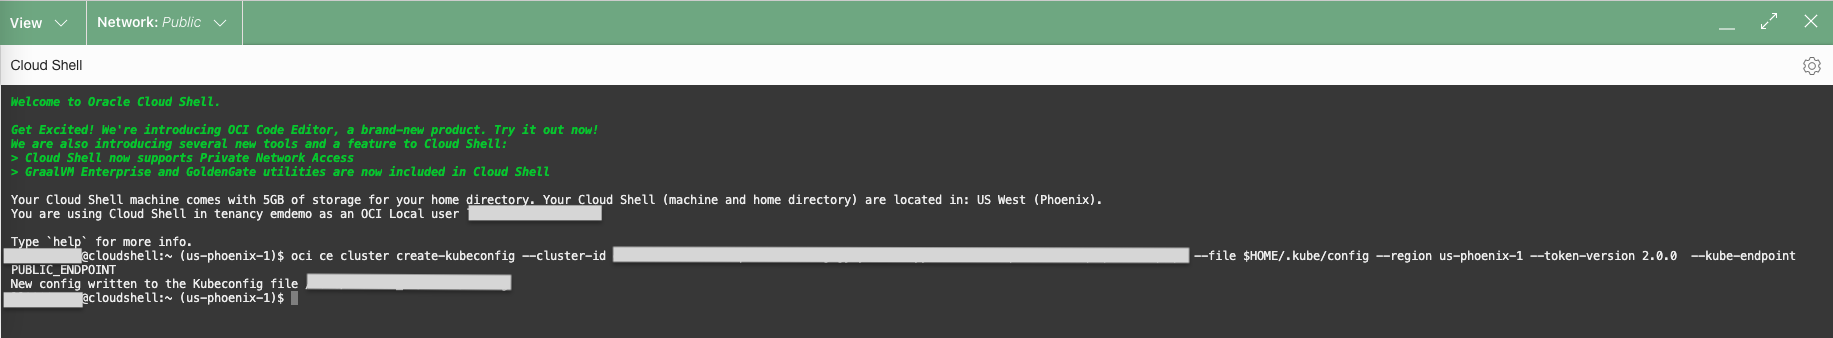
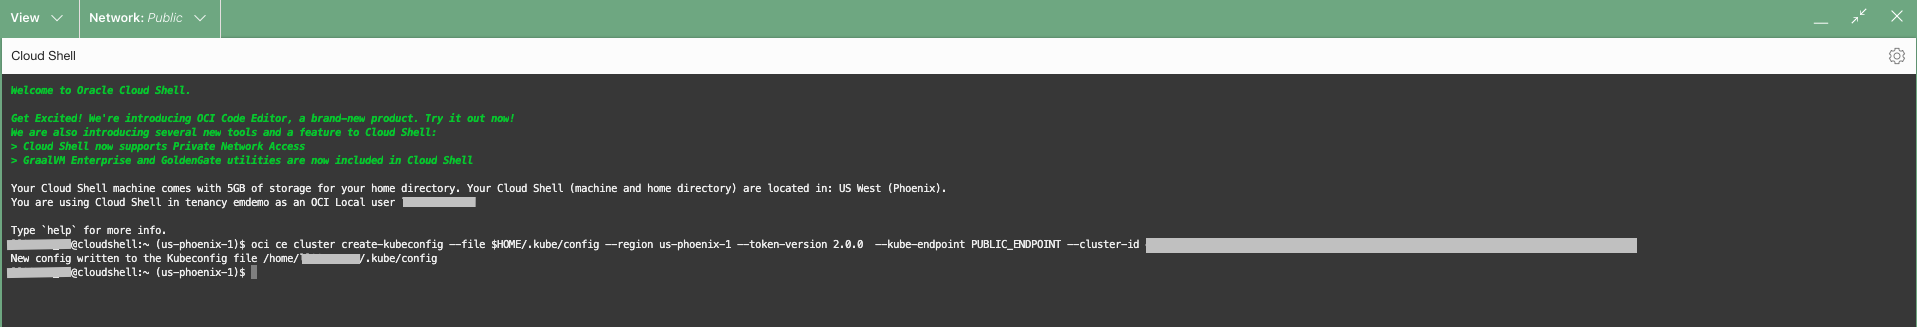
9501 Kubernetes and OKE Monitoring and Troubleshooting (#95)
* OKE Monitoring via LA Live Lab

OKE Monitoring via LA Live Lab

* Refactoring and image name changes

Refactoring and image name changes

* Add Details related to service accounts, cluster role and cluster role binding.

* Updating the Learn More Place Holders

Updating the Learn More Place Holders

* Delete howtouse-deletewhenfinished.md

* Incorporated the review comments

Incorporated the review comments and removed few details.

* Review Comments

1. Updated the manifest.json for ocw and copied the data in the other workshop
2. created the 3 different workshops for ocw
3.Updated the ingestion.md
4. Grammar Checks in ingestion.md and introuction.md

* Removing Lab 2 as per the review comment

Removing Lab 2 as per the review comment

* Masking the details and ips

Masking the details and ips

* Update get-fluentd-pods.png

* Removing the login steps as per the review comments

Removing the login steps as per the review comments

* Adding the new cloud-login-livelabs.md

Adding the new cloud-login-livelabs.md

* Conclusion lab and values yaml changes

Conclusion lab and values yaml changes

* Update ingestion.md

* Update conclusion.md

* Update ingestion.md

* Update ingestion.md

* Updating helm command and get deployments command

Updating helm command and get deployments command

* Custom Application Log Collection

Custom Application Log Collection

* Update custom-log-collection.md

* Updating the Image Alt Text

Updating the Image Alt Text
[…]

Changed region(s): [[0.0, 0.0, 1.0, 1.0], [0.0, 0.5505, 0.6219, 0.6728], [0.964, 0.0, 0.9951, 0.0612]]

diff --git a/logging-analytics/oke-monitoring-la/ingestion-flow-setup/ingestion.md b/logging-analytics/oke-monitoring-la/ingestion-flow-setup/ingestion.md
@@ -71,9 +71,10 @@ Gather the following information that will be used in this and subsequent labs.
 
     ```
      <copy>
-       oci ce cluster create-kubeconfig --cluster-id <Kubernetes Cluster OCID> --file $HOME/.kube/config --region us-phoenix-1 --token-version 2.0.0  --kube-endpoint PUBLIC_ENDPOINT
+       oci ce cluster create-kubeconfig --file $HOME/.kube/config --region us-phoenix-1 --token-version 2.0.0  --kube-endpoint PUBLIC_ENDPOINT --cluster-id <Kubernetes Cluster OCID>
      </copy>
     ```   
+    
     ![oci-cloud-shell](images/oci-command.png)
   
 
@@ -108,6 +109,9 @@ Gather the following information that will be used in this and subsequent labs.
 
 
 2. Download the helm chart using the following command.
+
+     > **Note**: The following helm chart is recommended only for this workshop. Refer [github] (https://github.com/oracle-quickstart/oci-kubernetes-monitoring/releases) for all other use cases. 
+
     ```
       <copy>
           wget https://objectstorage.us-phoenix-1.oraclecloud.com/p/YQy-JQa0RPGxI-pGKmnmA_PJArpo8ZjMdYXCJQM7yXXf6bSCyzI7X_YYmfTDxGbw/n/axfo51x8x2ap/b/oci-kubernetes-monitoring/o/helm-chart/v2.0.0.alpha.1.tgz
@@ -234,13 +238,13 @@ Gather the following information that will be used in this and subsequent labs.
 1. Install the helm chart using the following command.
       ```
         <copy>
-         helm install <Kubernetes Namespace> --values ~/oke-livelab/external-values/values.yaml ~/oke-livelab/helm-chart/ -n=<Kubernetes Namespace>
+         helm install ll-oke-monitoring --values ~/oke-livelab/external-values/values.yaml ~/oke-livelab/helm-chart/ -n=<Kubernetes Namespace>
         </copy>
       ```
       
       ```
-        NAME: resrXXXXX
-        LAST DEPLOYED: Fri Sep 23 05:18:11 2022
+        NAME: ll-oke-monitoring
+        LAST DEPLOYED: Thu Sep 29 10:20:18 2022
         NAMESPACE: resrXXXXX
         STATUS: deployed
         REVISION: 1
@@ -269,7 +273,7 @@ Gather the following information that will be used in this and subsequent labs.
      
       ```
             <copy>
-                kubectl get pods -n=<Kubernetes Namespace> | grep daemonset
+                kubectl get pods -l app=oci-la-fluentd-logs -n=<Kubernetes Namespace>
             </copy>
       ```
      
@@ -301,7 +305,7 @@ Gather the following information that will be used in this and subsequent labs.
 
        ```
           <copy>
-              kubectl get pods -n=<Kubernetes Namespace> |grep deployment
+              kubectl get pods -l app=oci-la-fluentd-objects -n=<Kubernetes Namespace>
           </copy>
        ```
       
@@ -361,7 +365,7 @@ Gather the following information that will be used in this and subsequent labs.
 
         ```
                 <copy>
-                    kubectl get pods -n=<Kubernetes Namespace> | grep daemonset
+                    kubectl get pods -l app=oci-la-fluentd-logs -n=<Kubernetes Namespace>
                 </copy>
           ```
      
@@ -384,27 +388,6 @@ Gather the following information that will be used in this and subsequent labs.
           2022-08-18 10:35:06 +0000 [info]: #0 fluentd worker is now running worker=0
       ```
      
-2. (Optional) Verify that the logs are being sent to Logging Analytics. 
-
-     - Execute the following command. 
-     
-        ```
-        <copy>
-            kubectl exec -n=<Kubernetes Namespace> --stdin --tty <daemonset-pod-name> -- tail -f /var/log/oci-logging-analytics.log
-        </copy>
-        ```
-    
-     - If you see the similar messages like below, logs are being sent to Logging Analytics successfully. 
-     ```
-     I, [2022-08-16T12:31:32.234958 #11]  INFO -- : Generating payload with 95  records for oci_la_log_group_id: ocid1.loganalyticsloggroup.oc1.abc.abcxxxxxxxxyx543xxxxxx
-     I, [2022-08-16T12:31:32.402328 #11]  INFO -- : The payload has been successfully uploaded to logAnalytics -
-                         oci_la_log_group_id: ocid1.loganalyticsloggroup.oc1.abc.abcxxxxxxxxyx543xxxxxx,
-                         ConsumedRecords: 95,
-                         Date: Tue, 16 Aug 2022 12:31:32 GMT,
-                         Time: 2022-08-16T12:31:32.000Z,
-                         opc-request-id: D61380FCECC84BD8A84349A766CF59FE/DD09F19E0CDBCDFCC5A4741CB178C3DF/897B96A83E503277C0B2287E2D4B2221,
-                         opc-object-id: c9959334-65ef-403f-9224-7e7c28e44587
-     ```
 
 ## Task 11: (Optional) Verify Management Agent is Running and Emitting Metrics
 

diff --git a/logging-analytics/oke-monitoring-la/exploration/exploration.md b/logging-analytics/oke-monitoring-la/exploration/exploration.md
@@ -6,8 +6,8 @@ This lab will walk you through the steps to visualize the log from the OKE Clust
 
 ### About
 In this lab we will be exploring
-* Dashboards - 
-* Widgets - 
+* Dashboards: A data visualization tool that gathers real-time data from the various tiers of Kubernetes Cluster.
+* Widgets: A component that displays the real-time data.
 
 
 ### Objectives
@@ -34,7 +34,7 @@ Estimated Time: 30 minutes
 
   >**Note:** The logs ingested from your **Kubernetes Cluster** as part of [Lab 2](?lab=ingestion) and [Lab 3](?lab=custom-log-collection) will exists in your **Log Group Compartment**. Thus all the widgets will be empty till we set these fields, which will be performed in the next steps.  
 
-2. Click on the **Scope Filter** panel
+2. Click on the **Scope Filter** panel.
     ![filter-panel](images/filter-panel.png)
     ![scope-panel](images/scope-panel.png)
 
@@ -60,7 +60,7 @@ Estimated Time: 30 minutes
     - The detailed explaination of this widget is discussed in [Task 3](#Task3:DeepDiveintoLogsWidget). 
 
 2. **Namespaces**
-    This widget displays total number of namespaces present in the selected OKE Cluster.
+    - This widget displays total number of namespaces present in the selected OKE Cluster.
       ![widget-namespace](images/widget-namespace.png)  
 
 3. **Log Types**
@@ -77,7 +77,7 @@ Estimated Time: 30 minutes
 4. **CPU and Memory Utilization**, **Network Transmit and Receive** & **Threads and Processes**
     - These widgets show the metrics data from OCI Monitoring.
       ![cpu-network-thread](images/cpu-network-thread.png)
-    - Refer to Lab #5 for the steps about how to build Metric widgets.
+    - Refer to  [Lab 5](?lab=dashboard) for the steps about how to build Metric widgets.
 
 5. **Cluster Components**
     - This widget displays the summary of components for your Kubernetes cluster. You can click on each link to get details for that component. 
@@ -96,6 +96,9 @@ Estimated Time: 30 minutes
     - Node specific details will be displayed.  
       ![node-specific-details](images/node-specific-details.png)
 
+    - Switch back to the Dashboard tab. 
+
+
 6. **Events From Pods**
     - This widget displays the events from all the pods of the selected cluster  
       ![widget-events-from-pods](images/widget-events-from-pods.png)  
@@ -104,14 +107,13 @@ Estimated Time: 30 minutes
     - This widget displays the network connection trends in the selected OKE Cluster.
     - Hover over any point to view the network connections in the cluster, the chart will be displayed.
       ![widget-connections-trends](images/widget-connections-trends.png)  
-    - The chart aggregates and groups the connections based on the direction (inbound or outbound), IPs involved and the number of connections.          
-    // direction - outbound only or (inbound or outbound).
+    - The chart aggregates and groups the connections initiated by a **Node** or a **Pod**.          
 
 ## Task 3: Deep Dive into Logs Widget
 
 
 1.  Click on the Punch Out Icon on the Logs widget.
-    ![punch-out-icon](images/punch-out-icon.png)  
+    ![punch-out-icon](images/logs-punch-out-icon.png)  
 
     This will take you to the "Tile view" of Log Explorer in context of **Kubernetes Cluster Name** .
     ![log-explorer-tile-view](images/log-explorer-tile-view.png)
@@ -147,7 +149,7 @@ Estimated Time: 30 minutes
      ![group-by-pod](images/group-by-pod.png)
 
    The results will be grouped by Node and Pod.
-    ![group-by-node-pod](images/group-by-node-pod-1.png)
+    ![group-by-node-pod](images/group-by-node-pod.png)
 
 
 

diff --git a/logging-analytics/oke-monitoring-la/custom-log-collection/custom-log-collection.md b/logging-analytics/oke-monitoring-la/custom-log-collection/custom-log-collection.md
@@ -171,15 +171,15 @@ Estimated Time: 15 minutes
 
     ```
      <copy>
-        helm upgrade --values ~/oke-livelab/external-values/values.yaml <Kubernetes Namespace> ~/oke-livelab/helm-chart/ -n=<Kubernetes Namespace>
+        helm upgrade --values ~/oke-livelab/external-values/values.yaml ll-oke-monitoring ~/oke-livelab/helm-chart/ -n=<Kubernetes Namespace>
      </copy>
        
      ```
 
      ```
-        Release "resrXXXXX" has been upgraded. Happy Helming!
-        NAME: resrXXXXX
-        LAST DEPLOYED: Mon Sep 26 07:02:10 2022
+        Release "ll-oke-monitoring" has been upgraded. Happy Helming!
+        NAME: ll-oke-monitoring
+        LAST DEPLOYED: Thu Sep 29 10:31:39 2022
         NAMESPACE: resrXXXXX
         STATUS: deployed
         REVISION: 2
